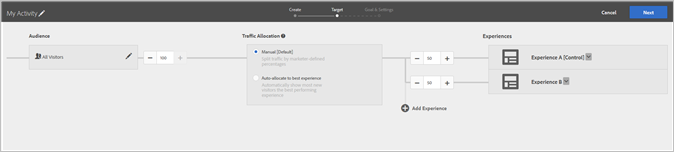
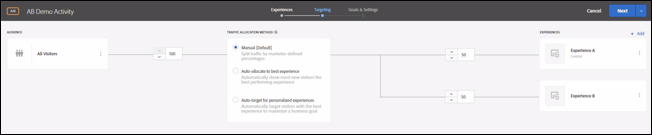
Updated screens and some text

diff --git a/help/c-experiences/t-form-experience-composer.md b/help/c-experiences/t-form-experience-composer.md
@@ -64,12 +64,8 @@ If you are creating a Recommendations activity, there are no experiences. Choose
    </thead>
    <tbody> 
    <tr> 
-      <td colname="col1"> <p>Change Offer </p> </td> 
-      <td colname="col2"> <p>Choose an offer saved in the content library in Target. </p> </td> 
-   </tr> 
-   <tr> 
-      <td colname="col1"> <p>Change Redirect Offer </p> </td> 
-      <td colname="col2"> <p>Choose a redirect offer. </p> </td> 
+      <td colname="col1"> <p>Change HTML Offer </p> </td> 
+      <td colname="col2"> <p>Choose an HTML offer. </p> </td> 
    </tr> 
    <tr> 
       <td colname="col1"> <p>Change Image Offer </p> </td> 
@@ -79,14 +75,46 @@ If you are creating a Recommendations activity, there are no experiences. Choose
          <li id="li_B79C509BF3B6402C835B84C6D30F29CE">Select the desired image, then click <span class="uicontrol"> Edit Links</span>. </li> 
          <li id="li_BEBB94C9F3C94678B196E26CDDBF2425">Specify the desired URL or page on your site, then click <span class="uicontrol"> Update</span>. </li> 
       </ol> </p> </td> 
+      </tr>
+<tr> 
+      <td colname="col1"> <p>Change JSON Offer </p> </td> 
+      <td colname="col2"> <p>Choose a JSON offer.</p> </td> 
+   </tr> <tr> 
+      <td colname="col1"> <p>Change Experience Fragment</p> </td> 
+      <td colname="col2"> <p>Choose an <a href="../c-experiences/c-manage-content/aem-experience-fragments.md" format="dita" scope="local"> Experience Fragment.</a></p> </td> 
    </tr> 
+<tr> 
+      <td colname="col1"> <p>Change Redirect Offer</p> </td> 
+      <td colname="col2"> <p>Choose a redirect offer. </p> </td> 
+   </tr> 
+<tr> 
+      <td colname="col1"> <p>Change Remote Offer</p> </td> 
+      <td colname="col2"> <p>Choose a remote offer. </p> </td> 
+   </tr> 
+<tr> 
+      <td colname="col1"> <p>Create HTML Offer </p> </td> 
+      <td colname="col2"> 
+      <ol id="ol_9DB0607503124884ACB3823E9BF7DB19"> 
+         <li id="li_69308FBB39F2479682D3E768555A8F8D">Click <span class="uicontrol"> Offers</span>, then select the <span class="uicontrol">Code Offers</span> tab. </li> 
+         <li id="li_B79C509BF3B6402C835B84C6D30F29CE">Select <span class="uicontrol"> Create</span> > <span class="uicontrol">HTML Offer. </li> 
+         <li id="li_BEBB94C9F3C94678B196E26CDDBF2425">Type an offer name. </li> 
+         <li>Type or paste your HTML code in the Code box.</li>
+         <li>Click <span class="uicontrol">Save</span>.</li>
+      </ol> </p> </td> 
+      </tr><tr> 
+      <td colname="col1"> <p>Create JSON Offer </p> </td> 
+      <td colname="col2"> 
+      <ol id="ol_9DB0607503124884ACB3823E9BF7DB19"> 
+         <li id="li_69308FBB39F2479682D3E768555A8F8D">Click <span class="uicontrol"> Offers</span>, then select the <span class="uicontrol">Code Offers</span> tab. </li> 
+         <li id="li_B79C509BF3B6402C835B84C6D30F29CE">Select <span class="uicontrol"> Create</span> > <span class="uicontrol">JSON Offer. </li> 
+         <li id="li_BEBB94C9F3C94678B196E26CDDBF2425">Type an offer name. </li> 
+         <li>Type or paste your JSON code in the Code box.</li>
+         <li>Click <span class="uicontrol">Save</span>.</li>
+      </ol> </p> </td> 
+      </tr>
    <tr> 
       <td colname="col1"> <p>Use Default Content </p> </td> 
       <td colname="col2"> <p>Use the default content. There is no option to select other content. </p> </td> 
-   </tr> 
-   <tr> 
-      <td colname="col1"> <p>Create HTML Offer </p> </td> 
-      <td colname="col2"> <p>Type or paste the HTML offer source code in the Enter HTML field. </p> <p>For information about using the code editor to create or edit HTML offers, see <a href="../c-experiences/c-visual-experience-composer/c-vec-code-editor/c-vec-code-editor.md#concept_B3A6E9EE3A60406DB640E205EA1745B5" format="dita" scope="local"> Code Editor</a>. </p> </td> 
    </tr> 
    </tbody> 
    </table>

diff --git a/help/r-release-notes/r-doc-change.md b/help/r-release-notes/r-doc-change.md
@@ -27,6 +27,34 @@ This page lists important changes made to the Target documentation.
   </tr> 
  </thead>
  <tbody>
+ <tr> 
+   <td colname="col1"> December 13, 2018 </td> 
+   <td colname="col2"> <p> <a href="../c-activities/t-test-ab/t-test-create-ab/c-ab-audience.md" format="dita" scope="local">Select audience</a> </p> </td> 
+   <td colname="col3"> <p>Updated images.</p> </td> 
+  </tr> 
+<tr> 
+   <td colname="col1"> </td> 
+   <td colname="col2"> <p> <a href="../c-experiences/t-form-experience-composer.md" format="dita" scope="local">Form-based Experience Composer</a> </p> </td> 
+   <td colname="col3"> <p>Updated image and table.</p> </td> <tr> 
+   <td colname="col1"> </td> 
+   <td colname="col2"> <p> <a href="../c-activities/t-test-ab/t-test-create-ab/c-ab-audience.md" format="dita" scope="local">Select audience</a> </p> </td> 
+   <td colname="col3"> <p>Updated images.</p> </td> 
+  </tr> 
+  </tr> 
+  <tr> 
+   <td colname="col1"> </td> 
+   <td colname="col2"> <p> <a href="../c-activities/t-test-ab/t-test-create-ab/t-ab-add-experience.md" 
+   format="dita" scope="local">Add experience</a> </p> </td> 
+   <td colname="col3"> <p>Updated image.</p> </td> 
+  </tr> 
+
+<tr> 
+   <td colname="col1"> </td> 
+   <td colname="col2"> <p> <a href="../c-activities/t-test-ab/t-test-create-ab/t-test-create-ab.md" 
+   format="dita" scope="local">Create an A/B test</a> </p> </td> 
+   <td colname="col3"> <p>Updated images.</p> </td> 
+  </tr> 
+
   <tr> 
    <td colname="col1"> December 11, 2018 </td> 
    <td colname="col2"> <p> <a href="../c-implementing-target/c-implementing-target-for-client-side-web/cmp-at.js-functions.md" format="dita" scope="local"> targetGlobalSettings</a> </p> </td> 
